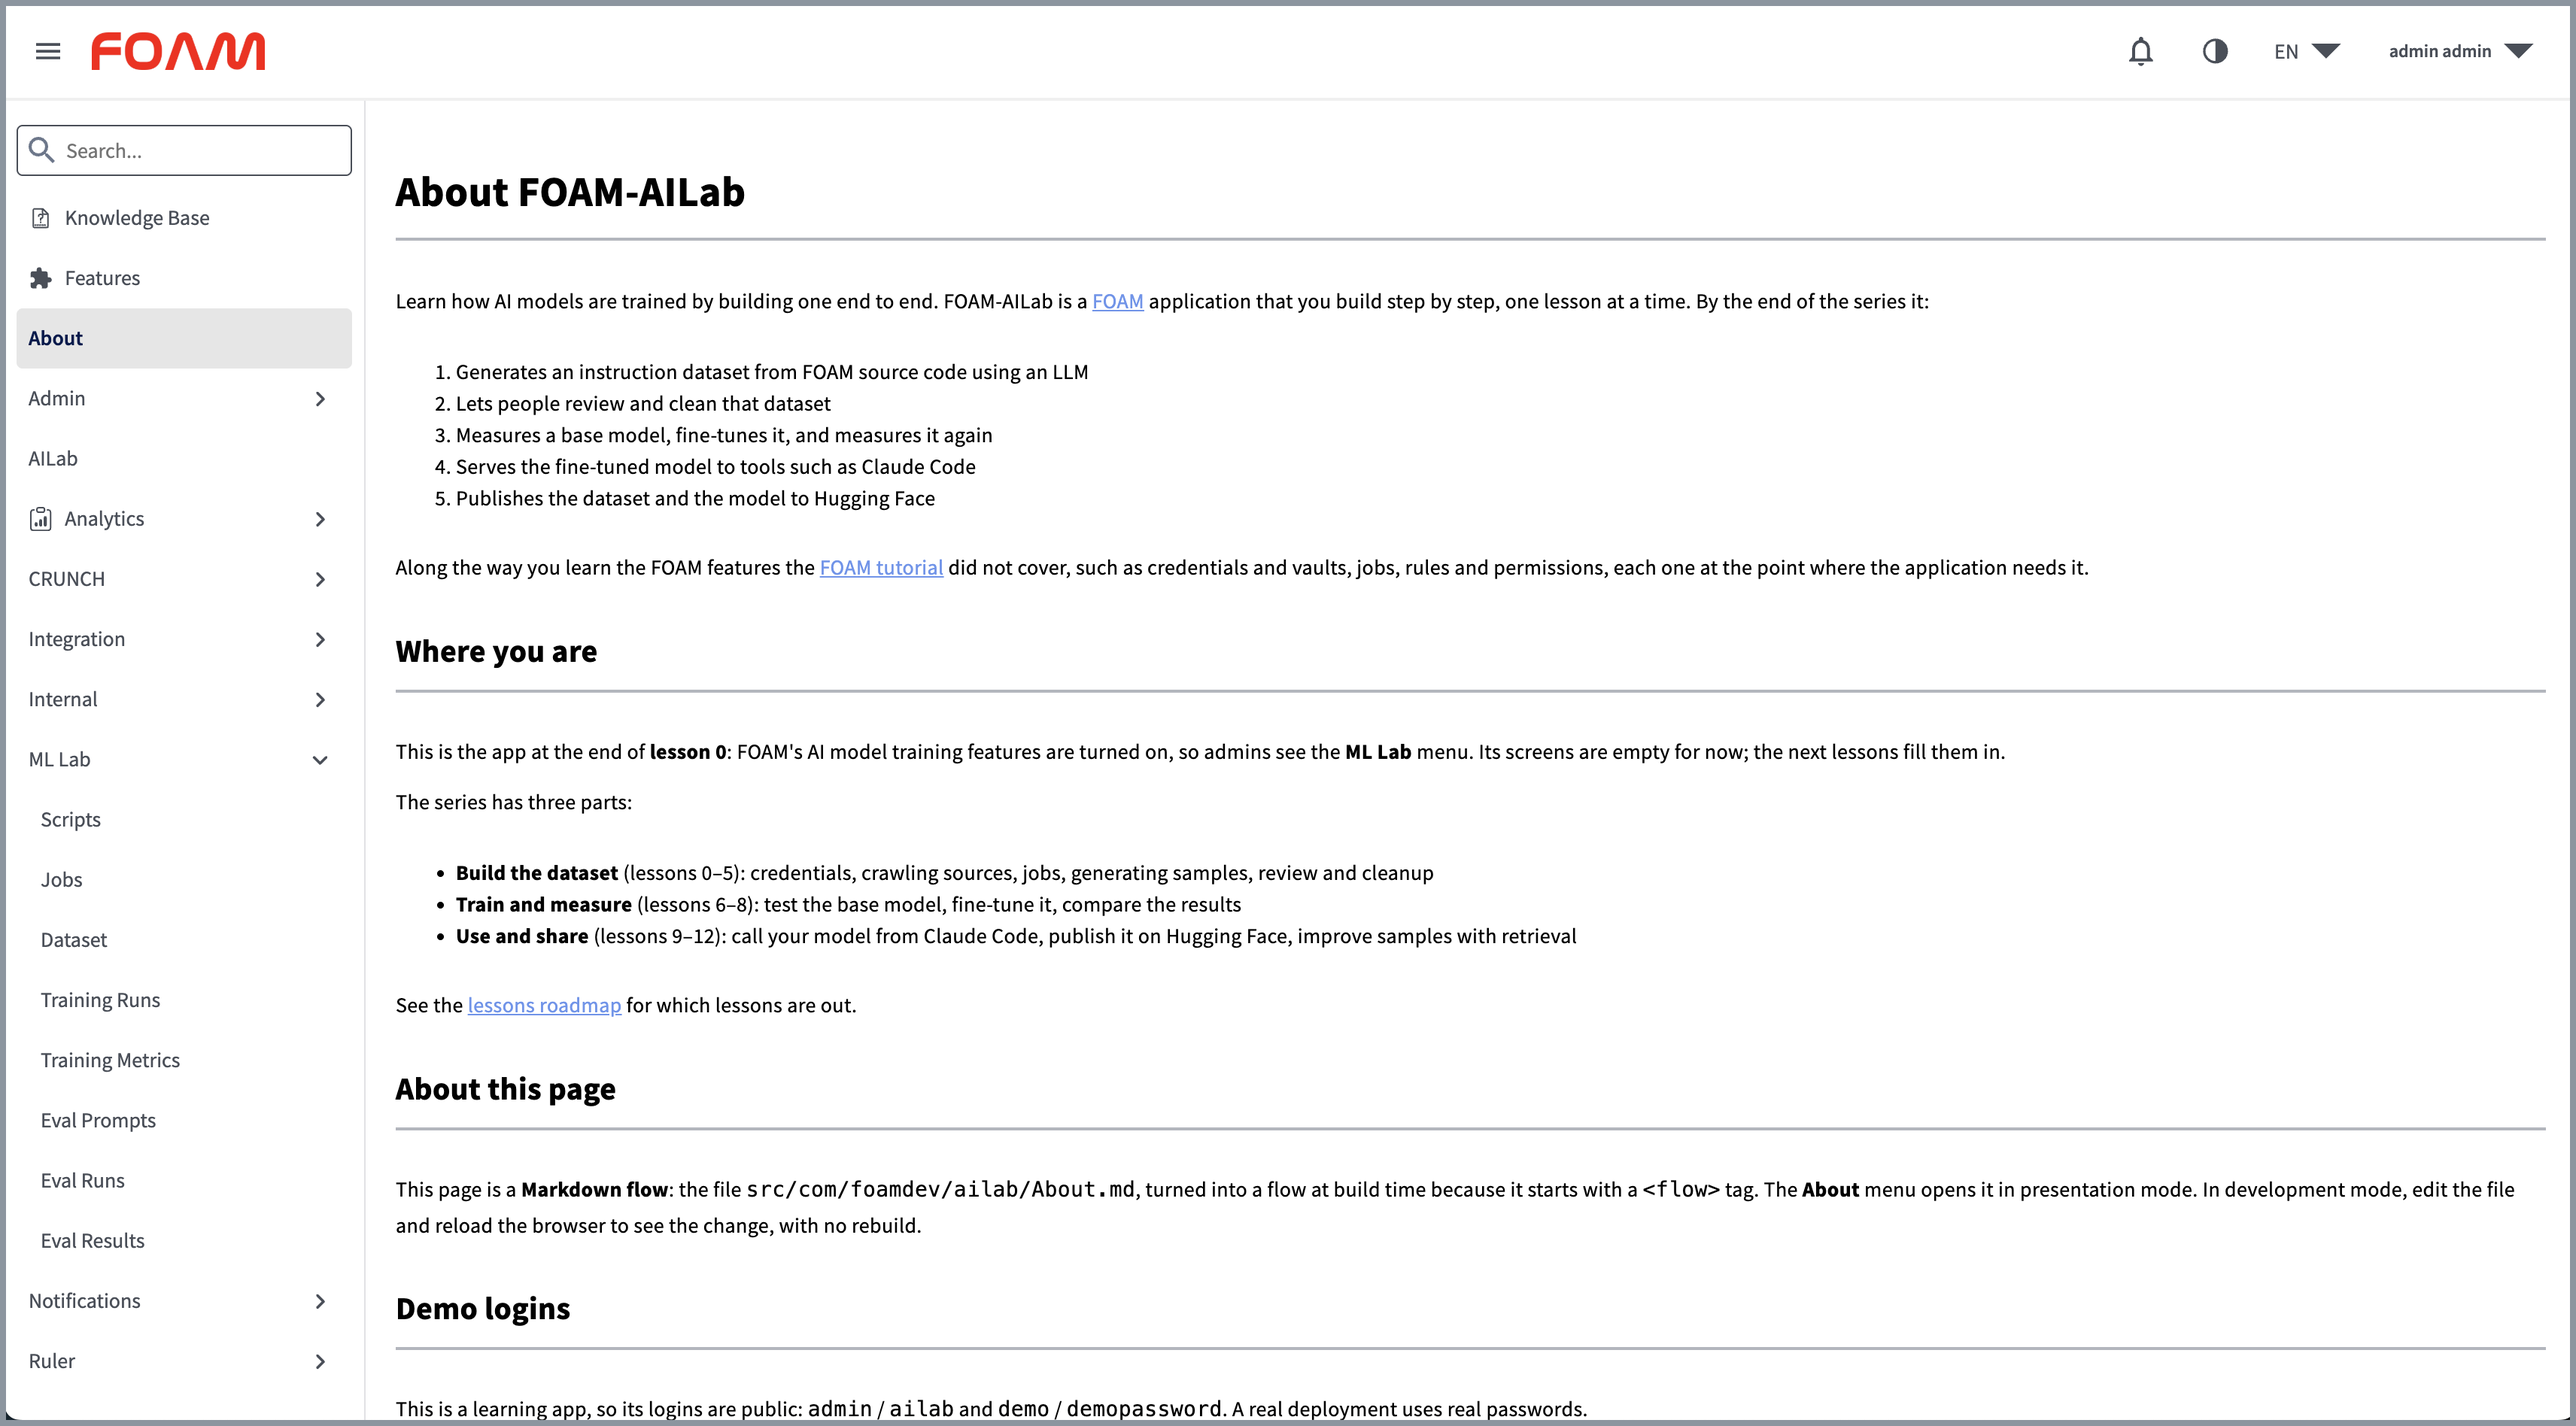
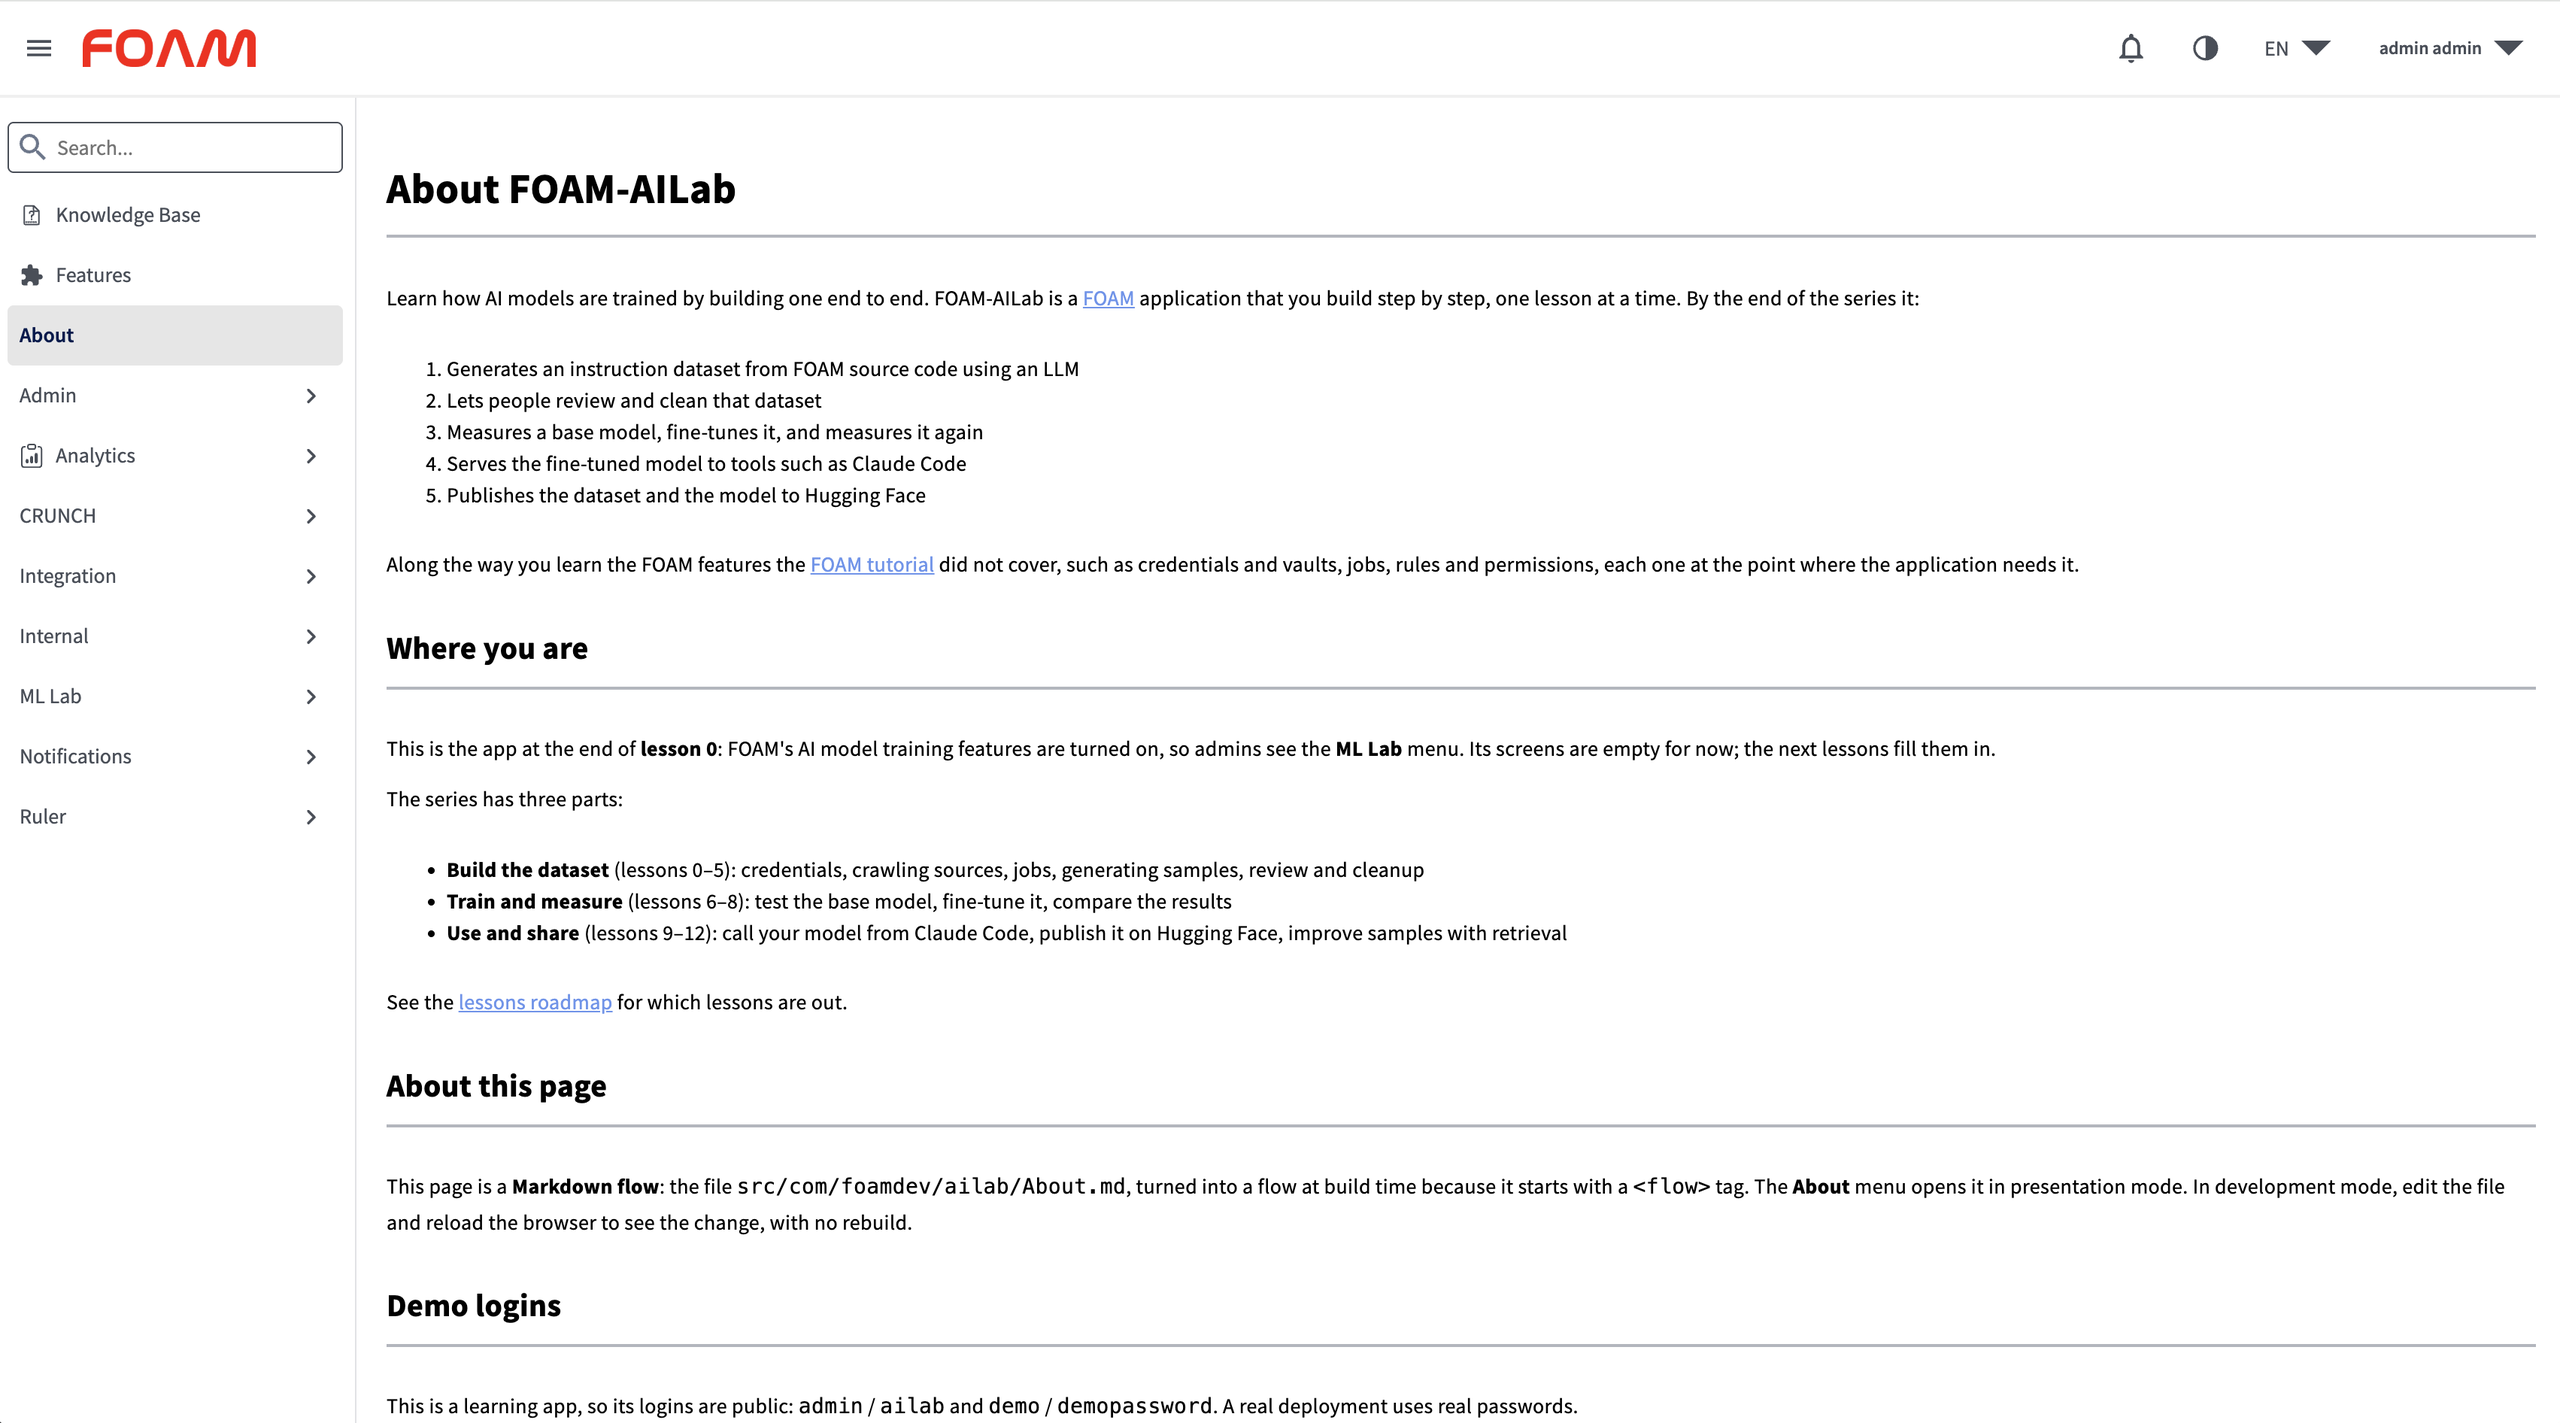
Lesson 0: replace the generated AILab menu with the About page

diff --git a/doc/lessons/00-setup.md b/doc/lessons/00-setup.md
@@ -1,4 +1,4 @@
-# Lesson 0: Setup and the plan
+  # Lesson 0: Setup and the plan
 
 In this lesson you get FOAM-AILab running, turn on FOAM's AI model training
 features, and give the app a welcome page. Along the way you see where the
@@ -19,7 +19,7 @@ the hardware notes in the [lessons overview](README.md#hardware).
 
 By the end of the series, FOAM-AILab runs a complete training pipeline:
 
-source code → training samples → review → measure the base model → fine-tune → evaluate → serve → publish
+![The training pipeline: source code, training samples, review, measure the base model, fine-tune, evaluate, serve, publish](images/00-pipeline.svg)
 
 The heart of it is the **training sample**. We use the Alpaca format: an
 instruction, an optional input, and the output the model should learn to give.
@@ -35,9 +35,10 @@ This is the sample the foundations guide follows through one training step
 ```
 
 Our samples are about FOAM code instead of capitals, but the shape is the same.
-Steps 1 and 2 of that section show what happens to a sample before training:
-it is turned into one piece of text, split into tokens, and paired with the
-tokens the model must predict.
+The foundations guide then shows what happens to a sample before training:
+
+- [Step 1: Format and tokenize][demystified-step1]: the three fields become one piece of text, which is split into tokens. [How text becomes numbers][demystified-tokenizers] explains tokenizers.
+- [Step 2: Inputs and targets][demystified-step2]: each token is paired with the token the model must predict next.
 
 A few decisions hold for the whole series:
 
@@ -54,7 +55,17 @@ submodule and check out the starting point:
 git clone --recurse-submodules git@github.com:<your-account>/FOAM-AILab.git
 cd FOAM-AILab
 git checkout start
+git submodule update
 ```
+
+> [!IMPORTANT]
+> Don't leave out `--recurse-submodules`. FOAM itself lives in the `foam3`
+> folder, a git submodule, and a plain `git clone` leaves that folder empty: the
+> build then fails. If that happened, run `git submodule update --init`.
+>
+> `git submodule update` after `git checkout start` matters too: it moves
+> `foam3` to the FOAM version that `start` uses. Run it every time you check out
+> a lesson tag.
 
 This uses SSH, like the FOAM tutorial's [Initial Setup][tutorial-setup]. If
 you haven't set up SSH keys with GitHub yet, see the
@@ -88,7 +99,7 @@ so its logins are public: `admin` / `ailab` and `demo` / `demopassword`. A real
 deployment uses real passwords.
 
 You see the app as the FOAM generator created it: an **AILab** menu with a
-placeholder model, and FOAM's standard admin menus. There's no sign of
+default model, and FOAM's standard admin menus. There's no sign of
 anything to do with training models.
 
 > 🐒 **Curious?** An app like this one is made by FOAM's project generator.
@@ -228,6 +239,38 @@ Click **Save**. The new row has fields you didn't fill in:
 - **Char count**: 58, the length of the three fields together.
 - **Status**: **New**.
 
+FOAM generates this create screen automatically from its `AlpacaSample` model.
+Here is a snippet of that model, shortened to the properties that matter now:
+
+```js
+foam.CLASS({
+  package: 'foam.core.ai.dataset',
+  name: 'AlpacaSample',
+
+  properties: [
+    {
+      class: 'String',
+      name: 'id',
+      createVisibility: 'HIDDEN',
+      updateVisibility: 'RO',
+      javaFactory: 'return hash_(getInstruction() + getOutput());'
+    },
+    { class: 'String', name: 'instruction', required: true },
+    { class: 'String', name: 'input' },
+    { class: 'String', name: 'output', required: true },
+    { class: 'Int',    name: 'charCount', createVisibility: 'HIDDEN' },
+    { class: 'Enum', of: 'foam.core.ai.dataset.AlpacaSampleStatus', name: 'status', value: 'NEW', createVisibility: 'HIDDEN' }
+  ]
+});
+```
+
+The three Alpaca fields are the only ones the create form shows; the others are
+`HIDDEN` there. The `javaFactory` computes the id on the server when the sample
+is saved. The full model is
+[`foam3/src/foam/core/ai/dataset/AlpacaSample.js`][alpaca-sample]; for how FOAM
+models work, see [Understanding FOAM Models][tutorial-models] in the FOAM
+tutorial.
+
 Char count and status are set by a FOAM **rule** that runs when a sample is
 created. You'll write rules of your own in lesson 5.
 
@@ -245,8 +288,9 @@ leave the row; lesson 5 covers what Discarded means.
 
 ## 8. A welcome page
 
-The app still opens on the placeholder AILab screen. Let's give it a page that
-says what the app is. In FOAM, a page of text can be a **Markdown flow**: a
+The app still opens on the **AILab** screen, the generator's default. A new
+user learns more from a page that says what the app is, so let's make that the
+landing page instead. In FOAM, a page of text can be a **Markdown flow**: a
 `.md` file that starts with a `<flow>` tag. The build turns it into a flow, and
 a menu can show it.
 
@@ -271,7 +315,9 @@ The tag's attributes:
 The page lives next to the app's code, not in `journals/`: that folder holds
 `.jrl` data, and the build finds `.md` files in any folder of the app's POM.
 
-Next, a menu that opens the flow. Add to `journals/menus.jrl`:
+Next, the menu. In `journals/menus.jrl`, replace the generated `aILab.aILab`
+entry (the one with `"label":"AILab"` and a `DAOMenu2` handler) with a menu
+that opens the flow:
 
 ```js
 p({
@@ -298,7 +344,8 @@ Make it the page the app opens on. In `journals/themes.jrl`, change
 "defaultMenu": ["aILab.about"],
 ```
 
-And let demo see the menu. Add to `journals/groupPermissionJunctions.jrl`:
+And let demo see the new menu. In `journals/groupPermissionJunctions.jrl`,
+replace the permission for the old menu, `menu.read.aILab.aILab`, with:
 
 ```js
 p({class:"foam.core.auth.GroupPermissionJunction",sourceId:"aILab",targetId:"menu.read.aILab.about"})
@@ -330,8 +377,8 @@ such as `flo`, in the search box above the menu.)
 ## 9. Checkpoint
 
 - [ ] The build log shows `Setting flag: ml = true`.
-- [ ] Admin lands on the About page and sees **ML Lab** with eight screens.
-- [ ] Demo lands on the About page and sees no ML Lab.
+- [ ] Admin lands on the About page and sees **ML Lab** with eight screens, and no **AILab** menu.
+- [ ] Demo lands on the About page and sees only **About**.
 - [ ] The Dataset has no samples, or only the France sample, Discarded.
 
 Compare with the `lesson-00` tag: `git diff start lesson-00`.
@@ -353,13 +400,12 @@ See also the [Tips](tips.md) page.
 [Lesson 1: Credentials and the vault](README.md#roadmap): store your Hugging
 Face token safely.
 
-The AILab placeholder model stays in the app; it does no harm. If you'd like to
-remove it, see [Removing the placeholder model](appendix-remove-placeholder.md).
-
 [foam-tutorial]: https://github.com/foam-foundation/foam3/blob/development/doc/tutorials/foam-tutorial.md
 [tutorial-generate]: https://github.com/foam-foundation/foam3/blob/development/doc/tutorials/foam-tutorial.md#generate-application
 [tutorial-menus]: https://github.com/foam-foundation/foam3/blob/development/doc/tutorials/foam-tutorial.md#menu-navigation
 [spid-guide]: https://github.com/foam-foundation/foam3/blob/development/doc/guides/SPID.md
+[alpaca-sample]: https://github.com/foam-foundation/foam3/blob/development/src/foam/core/ai/dataset/AlpacaSample.js
+[tutorial-models]: https://github.com/foam-foundation/foam3/blob/development/doc/tutorials/foam-tutorial.md#understanding-foam-models
 [tutorial-setup]: https://github.com/foam-foundation/foam3/blob/development/doc/tutorials/foam-tutorial.md#initial-setup
 [github-ssh]: https://docs.github.com/en/authentication/connecting-to-github-with-ssh/generating-a-new-ssh-key-and-adding-it-to-the-ssh-agent
 [journal-merging]: https://github.com/foam-foundation/foam3/blob/development/doc/tutorials/foam-tutorial.md#journal-merging-in-depth
@@ -367,6 +413,9 @@ remove it, see [Removing the placeholder model](appendix-remove-placeholder.md).
 [flags-guide]: https://github.com/foam-foundation/foam3/blob/development/doc/guides/Flags.md
 [demystified]: ../foundations/Neural-Network-Training-Demystified.md
 [demystified-sample]: ../foundations/Neural-Network-Training-Demystified.md#the-sample
+[demystified-step1]: ../foundations/Neural-Network-Training-Demystified.md#step-1-format-and-tokenize
+[demystified-tokenizers]: ../foundations/Neural-Network-Training-Demystified.md#tokenizers-how-text-becomes-numbers
+[demystified-step2]: ../foundations/Neural-Network-Training-Demystified.md#step-2-inputs-and-targets-teacher-forcing
 [demystified-loop]: ../foundations/Neural-Network-Training-Demystified.md#the-training-loop
 [demystified-gd]: ../foundations/Neural-Network-Training-Demystified.md#2-gradient-descent
 [demystified-loss]: ../foundations/Neural-Network-Training-Demystified.md#step-5-the-loss-for-each-token
